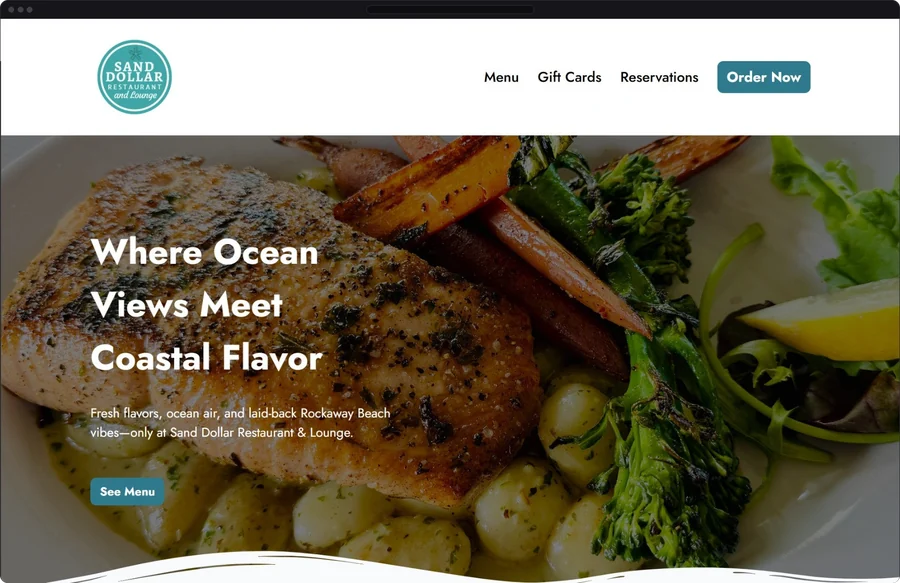
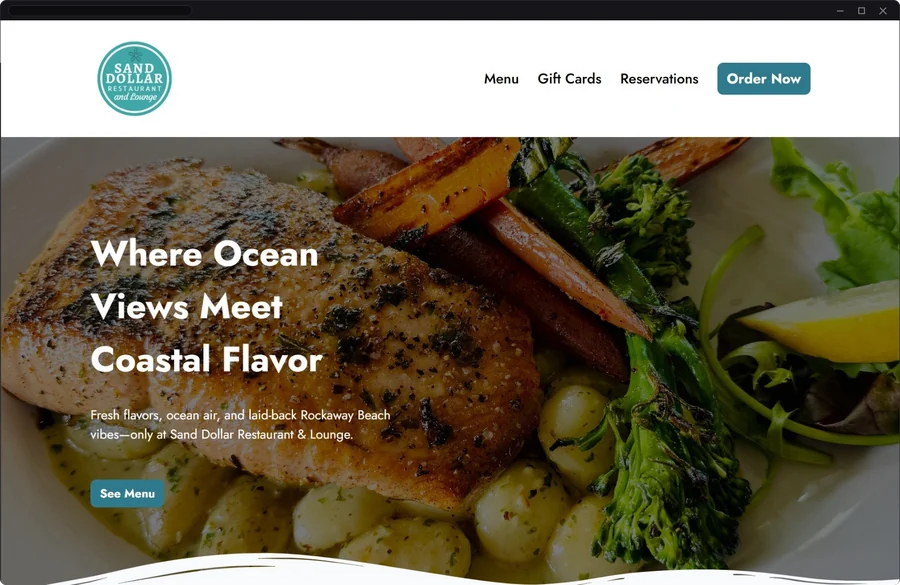
Windows-style image frames, blue gift card ribbon, underline on button press
- Case study browser frames use Windows caption buttons and a left
  address bar; phone frames use a punch-hole camera.
- Gift card ribbon recoloured to the site blue.
- Pressed buttons underline their label.

Claude-Session: https://claude.ai/code/session_01LEgFXyg4gACP1tcrN8g7GM

diff --git a/work/sand-dollar/index.html b/work/sand-dollar/index.html
@@ -181,7 +181,7 @@
       </div>
 
       <figure class="cs-hero-shot corner-panel">
-        <img src="/assets/work/sand-dollar/new-home-hero.webp" srcset="/assets/work/sand-dollar/new-home-hero-900.webp 900w, /assets/work/sand-dollar/new-home-hero.webp 1722w" sizes="(max-width: 1240px) 100vw, 1180px" width="1722" height="1116" decoding="async" fetchpriority="high" alt="The redesigned Sand Dollar Restaurant and Lounge homepage on desktop: logo, Menu, Gift Cards, Reservations, and an Order Now button above a seafood hero photo with the headline Where Ocean Views Meet Coastal Flavor.">
+        <img src="/assets/work/sand-dollar/new-home-hero.webp" srcset="/assets/work/sand-dollar/new-home-hero-900.webp 900w, /assets/work/sand-dollar/new-home-hero.webp 1722w" sizes="(max-width: 1240px) 100vw, 1180px" width="1722" height="1119" decoding="async" fetchpriority="high" alt="The redesigned Sand Dollar Restaurant and Lounge homepage on desktop: logo, Menu, Gift Cards, Reservations, and an Order Now button above a seafood hero photo with the headline Where Ocean Views Meet Coastal Flavor.">
         <figcaption class="cs-cap"><span class="label-chip label-chip--accent">After</span> Redesigned homepage · Desktop</figcaption>
       </figure>
     </div>
@@ -264,7 +264,7 @@
             <p>Working with the site day to day showed what screenshots can’t. Menus &amp; hours were outdated. Pages took a lot of scrolling. Photos didn’t always match the restaurant. There was no real support for online ordering, reservations, gift cards, or events.</p>
           </div>
           <figure class="cs-figure">
-            <img src="/assets/work/sand-dollar/old-events-catering.webp" width="1072" height="753" loading="lazy" decoding="async" alt="The old site's Special Events and Catering section: a plated seafood photo with a short paragraph about private events and a phone number, and no button or link to act on it.">
+            <img src="/assets/work/sand-dollar/old-events-catering.webp" width="1072" height="760" loading="lazy" decoding="async" alt="The old site's Special Events and Catering section: a plated seafood photo with a short paragraph about private events and a phone number, and no button or link to act on it.">
             <figcaption class="cs-cap"><span class="label-chip">Before</span> Events &amp; catering. Events info existed but had no clear path.</figcaption>
           </figure>
         </div>
@@ -296,7 +296,7 @@
         <h2 id="ba-h">Before &amp; After: The Homepage</h2>
         <div class="cs-compare">
           <figure class="cs-figure">
-            <img src="/assets/work/sand-dollar/old-home.webp" width="1375" height="1008" loading="lazy" decoding="async" alt="The old GoDaddy homepage: a dusk photo of the restaurant with the headline Taste the Ocean's Best, the address, and a single Visit Us button. No menu, ordering, or reservation links.">
+            <img src="/assets/work/sand-dollar/old-home.webp" width="1375" height="1015" loading="lazy" decoding="async" alt="The old GoDaddy homepage: a dusk photo of the restaurant with the headline Taste the Ocean's Best, the address, and a single Visit Us button. No menu, ordering, or reservation links.">
             <figcaption class="cs-cap"><span class="label-chip">Before</span> GoDaddy</figcaption>
             <h3>Nice Photo, No Clear Next Step</h3>
             <ul>
@@ -307,7 +307,7 @@
             </ul>
           </figure>
           <figure class="cs-figure">
-            <img src="/assets/work/sand-dollar/new-home.webp" width="900" height="623" loading="lazy" decoding="async" alt="The redesigned Shift4 homepage: Menu, Gift Cards, Reservations, and an Order Now button in the header, with a See Menu button on the top banner.">
+            <img src="/assets/work/sand-dollar/new-home.webp" width="900" height="627" loading="lazy" decoding="async" alt="The redesigned Shift4 homepage: Menu, Gift Cards, Reservations, and an Order Now button in the header, with a See Menu button on the top banner.">
             <figcaption class="cs-cap"><span class="label-chip label-chip--accent">After</span> Shift4 · Redesigned Around Guest Actions</figcaption>
             <h3>Every Main Action Up Front</h3>
             <ul>
@@ -322,11 +322,11 @@
         <h2 class="cs-h2-sub">Before &amp; After: Hours &amp; Contact</h2>
         <div class="cs-compare">
           <figure class="cs-figure">
-            <img src="/assets/work/sand-dollar/old-hours.webp" width="1428" height="756" loading="lazy" decoding="async" alt="The old contact page footer: address, phone, and email, then Hours showing only Open today 12:00 pm to 08:00 pm in a dropdown.">
+            <img src="/assets/work/sand-dollar/old-hours.webp" width="1428" height="764" loading="lazy" decoding="async" alt="The old contact page footer: address, phone, and email, then Hours showing only Open today 12:00 pm to 08:00 pm in a dropdown.">
             <figcaption class="cs-cap"><span class="label-chip">Before</span> Bottom of the contact page. Only today’s hours, tucked in a dropdown under the contact form.</figcaption>
           </figure>
           <figure class="cs-figure">
-            <img src="/assets/work/sand-dollar/new-hours-desktop.webp" width="794" height="473" loading="lazy" decoding="async" alt="The new Visit Us section: address, phone, email, Monday to Sunday hours, happy hour, holiday closures, last orders and reservations at 7:30 PM, doors close at 8 PM, and no same-day reservations.">
+            <img src="/assets/work/sand-dollar/new-hours-desktop.webp" width="794" height="478" loading="lazy" decoding="async" alt="The new Visit Us section: address, phone, email, Monday to Sunday hours, happy hour, holiday closures, last orders and reservations at 7:30 PM, doors close at 8 PM, and no same-day reservations.">
             <figcaption class="cs-cap"><span class="label-chip label-chip--accent">After</span> Desktop Visit Us. Hours, happy hour, holiday closures, and ordering &amp; reservation cutoffs, right on the page. Captured from the live site in October 2026.</figcaption>
           </figure>
         </div>
@@ -373,7 +373,7 @@
         <h3>Visual Direction</h3>
         <p>The look pulls from the restaurant itself: the teal logo, current food &amp; dining photos, plus a wave divider that nods to the coast. Simple, warm, and easy to scan.</p>
         <figure class="cs-figure">
-          <img src="/assets/work/sand-dollar/menu-starters.webp" width="1604" height="483" loading="lazy" decoding="async" alt="The Starters section of the website menu: Calamari, Garlic Feta Fries, and Prawn Cocktail, each with a short description and price.">
+          <img src="/assets/work/sand-dollar/menu-starters.webp" width="1604" height="487" loading="lazy" decoding="async" alt="The Starters section of the website menu: Calamari, Garlic Feta Fries, and Prawn Cocktail, each with a short description and price.">
           <figcaption class="cs-cap"><span class="label-chip label-chip--accent">After</span> Desktop menu. Close view of the Starters section: real text grouped by course with descriptions &amp; prices.</figcaption>
         </figure>
       </section>
@@ -453,7 +453,7 @@
             </ul>
           </div>
           <figure class="cs-figure">
-            <img src="/assets/work/sand-dollar/reservations.webp" width="1116" height="812" loading="lazy" decoding="async" alt="The Make a Reservation form with party size, date, and time fields, a Check Availability button, and a note that groups larger than 16 should call the restaurant.">
+            <img src="/assets/work/sand-dollar/reservations.webp" width="1116" height="819" loading="lazy" decoding="async" alt="The Make a Reservation form with party size, date, and time fields, a Check Availability button, and a note that groups larger than 16 should call the restaurant.">
             <figcaption class="cs-cap"><span class="label-chip label-chip--accent">After</span> Reservations. Party size, date, and time in one step, with a phone option for big groups.</figcaption>
           </figure>
         </div>
@@ -469,7 +469,7 @@
             </ul>
           </div>
           <figure class="cs-figure cs-figure--narrow">
-            <img src="/assets/work/sand-dollar/gift-cards.webp" width="906" height="1151" loading="lazy" decoding="async" alt="The Order Gift Cards page with a Send Digitally option, a gift card image, and an Order Gift Card button.">
+            <img src="/assets/work/sand-dollar/gift-cards.webp" width="906" height="1156" loading="lazy" decoding="async" alt="The Order Gift Cards page with a Send Digitally option, a gift card image, and an Order Gift Card button.">
             <figcaption class="cs-cap"><span class="label-chip label-chip--accent">After</span> Gift cards. Guests can order digital gift cards online. The live page also has a balance check.</figcaption>
           </figure>
         </div>

diff --git a/css/components.css b/css/components.css
@@ -175,16 +175,20 @@ h3 {
   padding: var(--space-3) var(--space-6);
   min-height: 44px;
   border-radius: var(--radius-md);
-  text-decoration: none;
   border: 1px solid transparent;
   text-align: center;
-  transition: transform var(--transition-interactive), box-shadow var(--transition-interactive);
+  transition: transform var(--transition-interactive), box-shadow var(--transition-interactive),
+    text-decoration-color var(--transition-interactive);
+  text-decoration: underline 1.5px transparent;
+  text-underline-offset: 0.3em;
 }
 /* Hover: the button presses in like a hardware key. No colour change and
    no glow: it sinks 1px and takes an inner shadow along the top edge.
-   Clicking presses it a little further. */
+   Clicking presses it a little further. The label gets an underline while
+   pressed. */
 .btn:hover {
   transform: translateY(1px);
+  text-decoration-color: currentColor;
   box-shadow:
     inset 0 2px 4px rgb(0 0 0 / 0.35),
     inset 0 0 0 1px rgb(0 0 0 / 0.12);
@@ -198,6 +202,10 @@ h3 {
 @media (prefers-reduced-motion: reduce) {
   .btn:hover,
   .btn:active { transform: none; }
+}
+/* inline-block keeps the button underline off small meta text like "10 pages" */
+.btn .work-card-meta {
+  display: inline-block;
 }
 .btn svg {
   width: 15px;
@@ -285,6 +293,7 @@ h3 {
    pressed face also sinks a shade darker. */
 .btn-secondary:hover {
   background: rgb(0 0 0 / 0.35);
+  text-decoration-color: var(--color-primary);
 }
 .btn-compact {
   padding: var(--space-2) var(--space-4);

diff --git a/scripts/frame-shots.py b/scripts/frame-shots.py
@@ -1,13 +1,13 @@
 # Usage: python3 scripts/frame-shots.py browser|phone|mat SRC DISPLAY_WIDTH_PX OUT.webp [MAX_WIDTH]
 # DISPLAY_WIDTH_PX is roughly how wide the image shows on the page, so
 # frames come out the same thickness on screen whatever the source size.
-# Bakes a dark browser window, phone bezel, or photo mat around each case
+# Bakes a dark Windows-style browser window, phone bezel, or photo mat around each case
 # study image so they sit on the dark page as one consistent set.
 import sys
 from PIL import Image, ImageDraw
 SS = 4  # supersample for smooth corners
 FRAME = (22, 22, 26, 255); RIM = (44, 44, 51, 255); DOT = (64, 64, 72, 255)
-PILL = (14, 14, 17, 255); ISLAND = (6, 6, 8, 255)
+PILL = (14, 14, 17, 255); ISLAND = (6, 6, 8, 255); GLYPH = (120, 120, 130, 255)
 
 def rr(size, r):
     m = Image.new('L', (size[0]*SS, size[1]*SS), 0)
@@ -19,16 +19,21 @@ def shape(size, r, color):
 
 def browser(src, display_w):
     im = Image.open(src).convert('RGB'); w, h = im.size; k = w / display_w
-    bar = round(24*k); b = max(1, round(1*k)); r = round(10*k)
+    bar = round(26*k); b = max(1, round(1*k)); r = round(8*k)
     W, H = w + 2*b, h + bar + b
     out = shape((W, H), r, RIM)
     out.alpha_composite(shape((W-2*b, H-2*b), max(r-b, 1), FRAME), (b, b))
     d = ImageDraw.Draw(out)
-    cy = b + bar//2; dr = round(3.5*k)
-    for i in range(3):
-        cx = b + round((14 + i*12)*k); d.ellipse([cx-dr, cy-dr, cx+dr, cy+dr], fill=DOT)
-    pw = min(round(220*k), int(W*0.45)); ph = round(12*k)
-    d.rounded_rectangle([W//2-pw//2, cy-ph//2, W//2+pw//2, cy+ph//2], ph//2, fill=PILL, outline=RIM, width=b)
+    cy = b + bar//2; g = round(4*k); lw = max(1, round(1.2*k))
+    # Windows caption buttons on the right: minimise, maximise, close
+    xs = [W - b - round(x*k) for x in (78, 50, 22)]
+    d.line([xs[0]-g, cy, xs[0]+g, cy], fill=GLYPH, width=lw)
+    d.rectangle([xs[1]-g, cy-g, xs[1]+g, cy+g], outline=GLYPH, width=lw)
+    d.line([xs[2]-g, cy-g, xs[2]+g, cy+g], fill=GLYPH, width=lw)
+    d.line([xs[2]-g, cy+g, xs[2]+g, cy-g], fill=GLYPH, width=lw)
+    # address bar on the left, like Edge or Chrome on Windows
+    ax = b + round(10*k); pw = min(round(240*k), int(W*0.5)); ph = round(14*k)
+    d.rounded_rectangle([ax, cy-ph//2, ax+pw, cy+ph//2], ph//2, fill=PILL, outline=RIM, width=b)
     # screenshot: square top, rounded bottom to match the window
     shot = im.convert('RGBA')
     m = Image.new('L', (w, h), 255); bm = rr((w, h + r), max(r-b, 1)).crop((0, r, w, h + r))
@@ -47,8 +52,9 @@ def phone(src, display_w):
     m = Image.new('L', (w, h), 255); bm = rr((w, h + r), r-bz).crop((0, r, w, h + r))
     m.paste(bm, (0, 0)); shot.putalpha(m)
     out.alpha_composite(shot, (bz, bz + sb))
-    iw, ih = round(40*k), round(11*k); top = bz + round(5*k)
-    ImageDraw.Draw(out).rounded_rectangle([W//2-iw//2, top, W//2+iw//2, top+ih], ih//2, fill=ISLAND)
+    # punch-hole camera in the status bar
+    cr = round(4*k); cy = bz + sb//2
+    ImageDraw.Draw(out).ellipse([W//2-cr, cy-cr, W//2+cr, cy+cr], fill=(30, 30, 36, 255))
     return out
 
 def mat(src, display_w):
